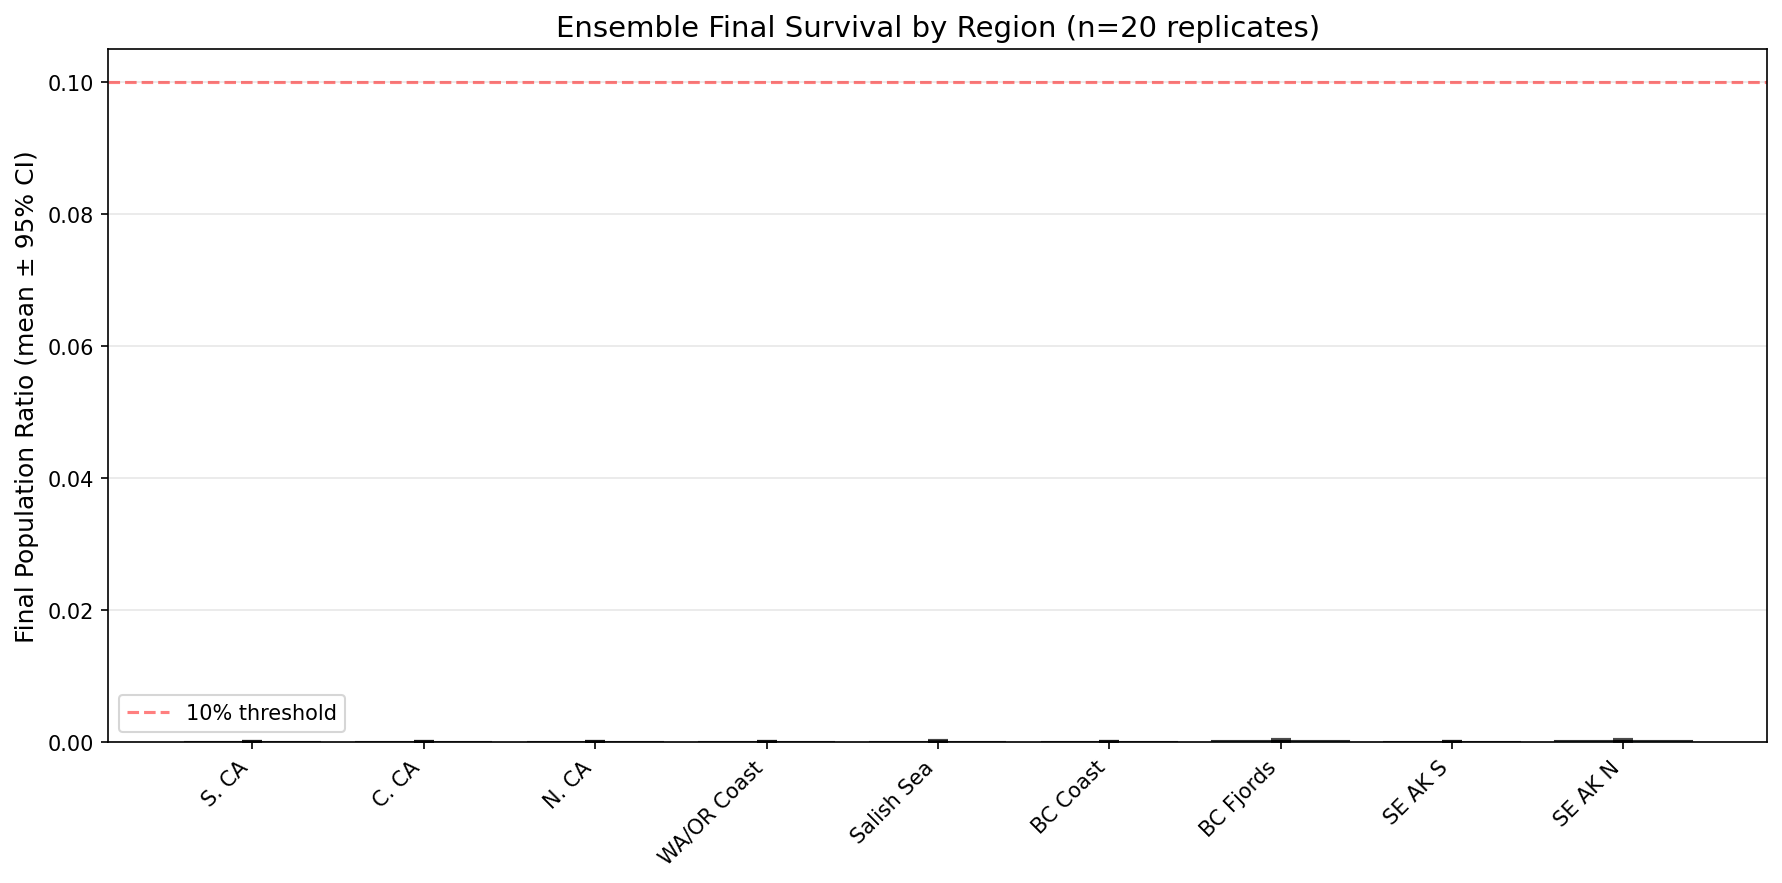
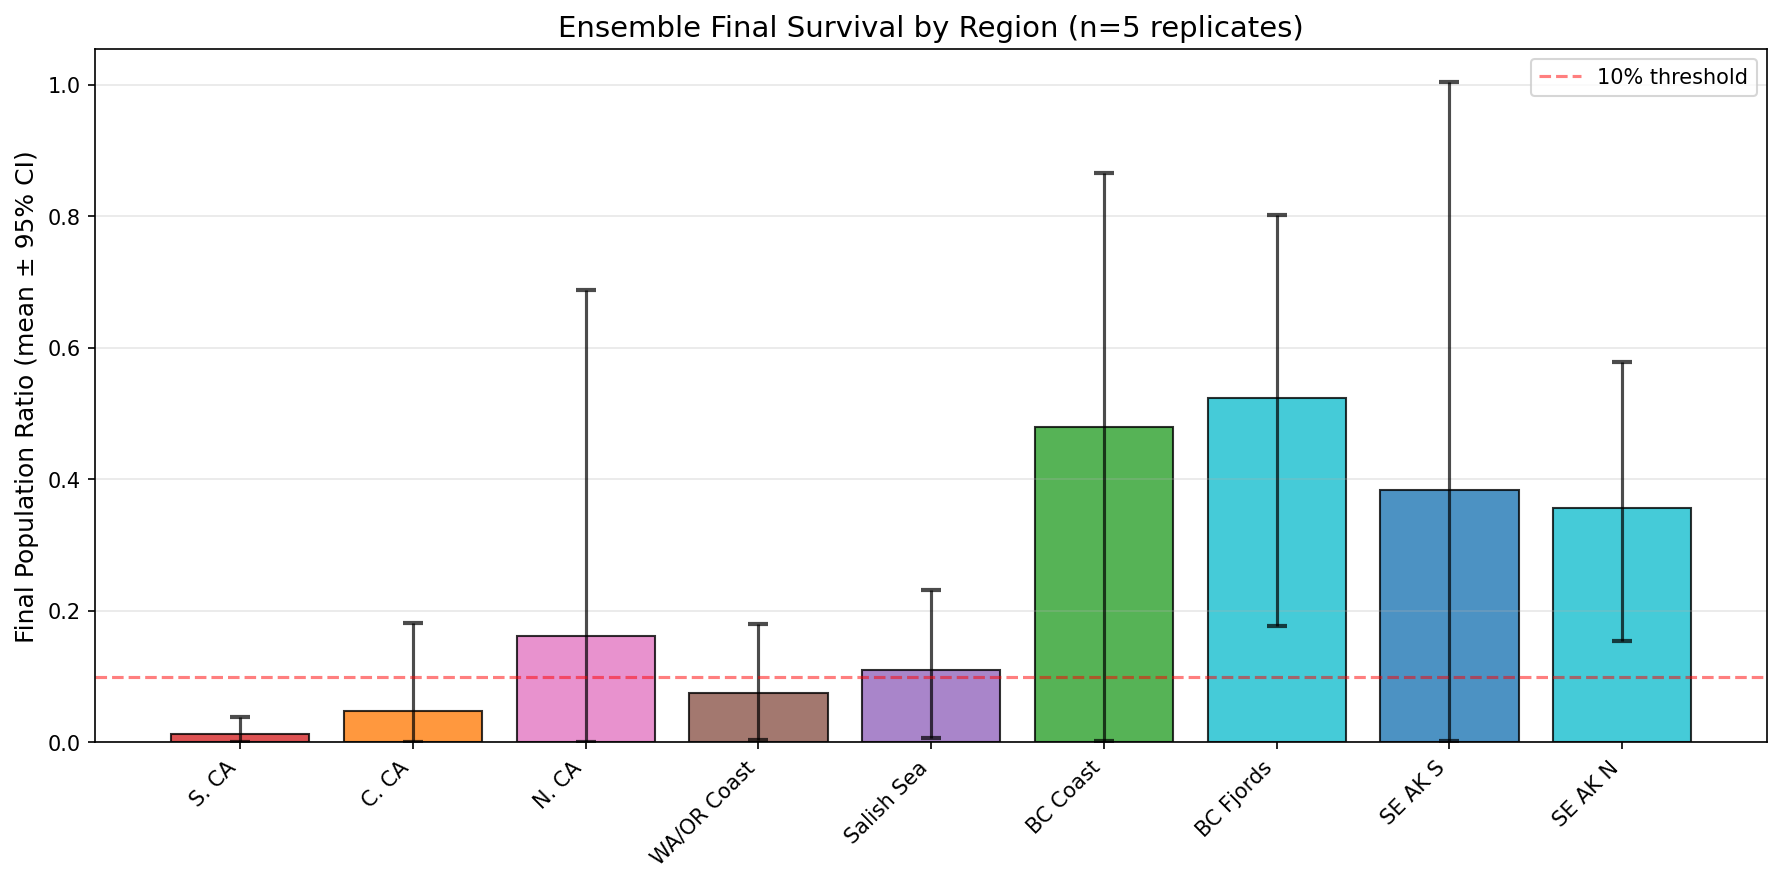
fix: recovery dynamics via corrected subnetwork wiring
Key changes:
- Disease density check on reinfection (was allowing reinfection at <10% density)
- Pocket self-recruitment 85% (from 95%) with controlled coast export
- Pocket→coast export uses per-site weighting to prevent row normalization from
  crushing self-recruitment (was 17% effective, now 82.5%)
- Larger pockets: 15% of fjord sites, 4 sites per pocket
- Reduced Allee threshold (50→10) for recolonizing populations
- Coast sites cleared of disease post-acute, enabling larval recolonization

Result: northern fjord regions now show crash→recovery matching observations.
BC Fjords recover to ~50% by year 100, SE AK N to ~36%.

diff --git a/pycnopodia/pacific_coast.py b/pycnopodia/pacific_coast.py
@@ -241,10 +241,10 @@ class PacificCoastConfig:
     
     # Fjord subnetwork parameters
     # Fjord regions contain isolated pockets that block disease but allow larval export
-    fjord_pocket_fraction: float = 0.05  # Small fraction of fjord sites in isolated pockets
-    fjord_pocket_size: int = 2  # Sites per pocket (individual fjord arms)
+    fjord_pocket_fraction: float = 0.15  # Fraction of fjord sites in isolated pockets
+    fjord_pocket_size: int = 4  # Sites per pocket (individual fjord arms)
     fjord_disease_cross_pocket: float = 0.01  # Near-zero disease transmission between pockets
-    fjord_larval_self_recruitment: float = 0.95  # Very high retention within pocket
+    fjord_larval_self_recruitment: float = 0.85  # High retention in pocket fjords — larvae retained by local currents
     
     # Genetics
     n_loci: int = 10
@@ -259,8 +259,8 @@ class PacificCoastConfig:
     carrying_capacity_multiplier: float = 2.0  # K relative to initial pop (allows recovery headroom)
     recruitment_ratio: float = 0.35  # Must offset 5% adult mortality + juvenile loss
     breeding_success_ratio: float = 0.08
-    allee_threshold: int = 50
-    allee_half_sat: int = 100
+    allee_threshold: int = 10  # Low threshold: recolonizers aggregate locally
+    allee_half_sat: int = 30   # Broadcast spawners can succeed at low density if aggregated
     
     # Simulation
     n_years: int = 100
@@ -486,15 +486,17 @@ def build_larval_connectivity_matrix(
                     C[i, j] = 0.15  # Open coast - most larvae disperse
                 continue
             
-            # Same subnetwork pocket: high internal connectivity
+            # Same subnetwork pocket: internal connectivity
             if source.subnetwork_id >= 0 and source.subnetwork_id == target.subnetwork_id:
-                C[i, j] = (1 - config.fjord_larval_self_recruitment) * 0.8  # Most non-self goes to pocket neighbor
+                C[i, j] = 0.03  # Small fraction to pocket neighbor
                 continue
             
-            # From pocket to coast: small export (this enables recovery!)
+            # From pocket to coast: larval export (recovery mechanism)
+            # Use small per-site values so total coast export stays controlled
+            # After normalization, pocket self ~85%, pocket neighbors ~3%, coast export ~12%
             if source.subnetwork_id >= 0 and target.subnetwork_id < 0:
-                weight = np.exp(-dist / (config.larval_dispersal_scale * 0.3))
-                C[i, j] = weight * 0.05  # Small but nonzero larval export
+                weight = np.exp(-dist / config.larval_dispersal_scale)
+                C[i, j] = weight * 0.004  # Small per-site, sums to ~12% across all coast sites
                 continue
             
             # Same region - high connectivity
@@ -955,6 +957,12 @@ class PacificCoastSimulation:
                     continue
                 
                 if self.disease_prevalence[i] < 0.1:
+                    # Low-density sites can't support new infections
+                    density_ratio_check = self.populations[i] / max(self.initial_populations[i], 1)
+                    if density_ratio_check < 0.10:
+                        new_prevalence[i] = 0.0
+                        continue
+                    
                     # Compute transmission pressure from infected sites
                     transmission_pressure = 0.0
                     for j in range(self.n_sites):
